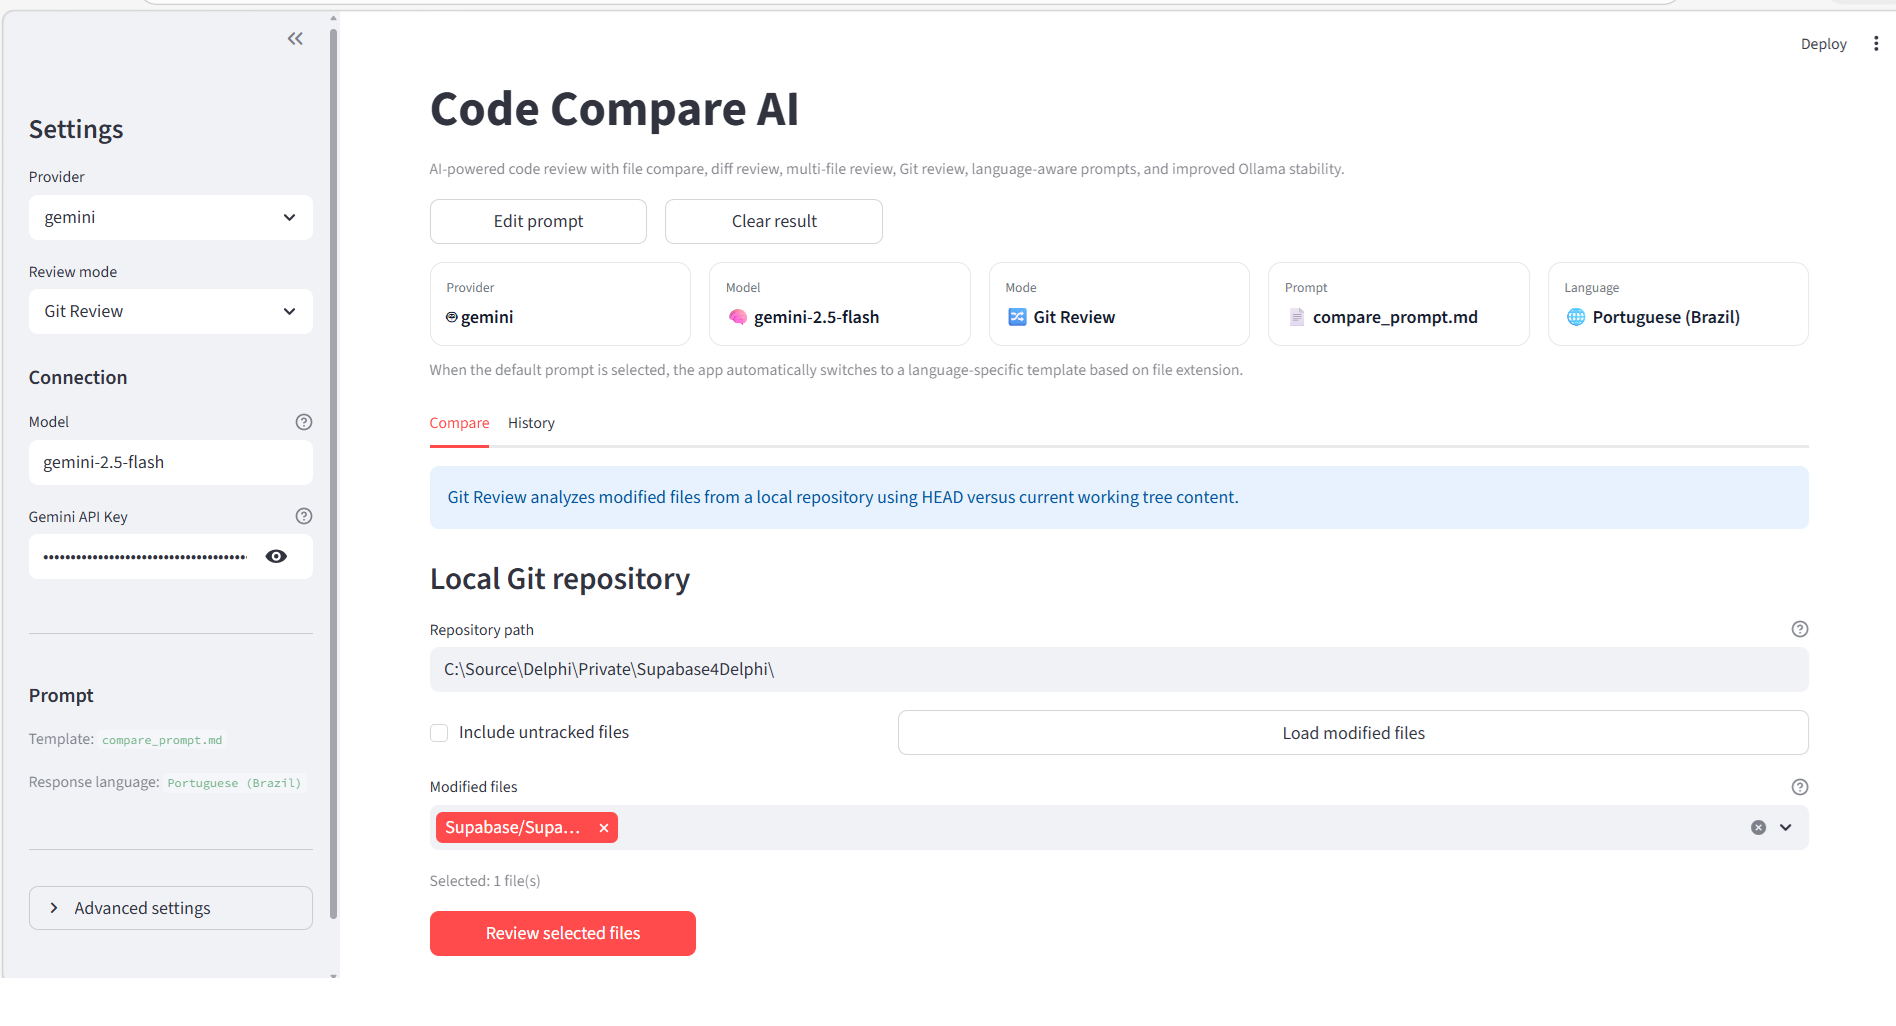
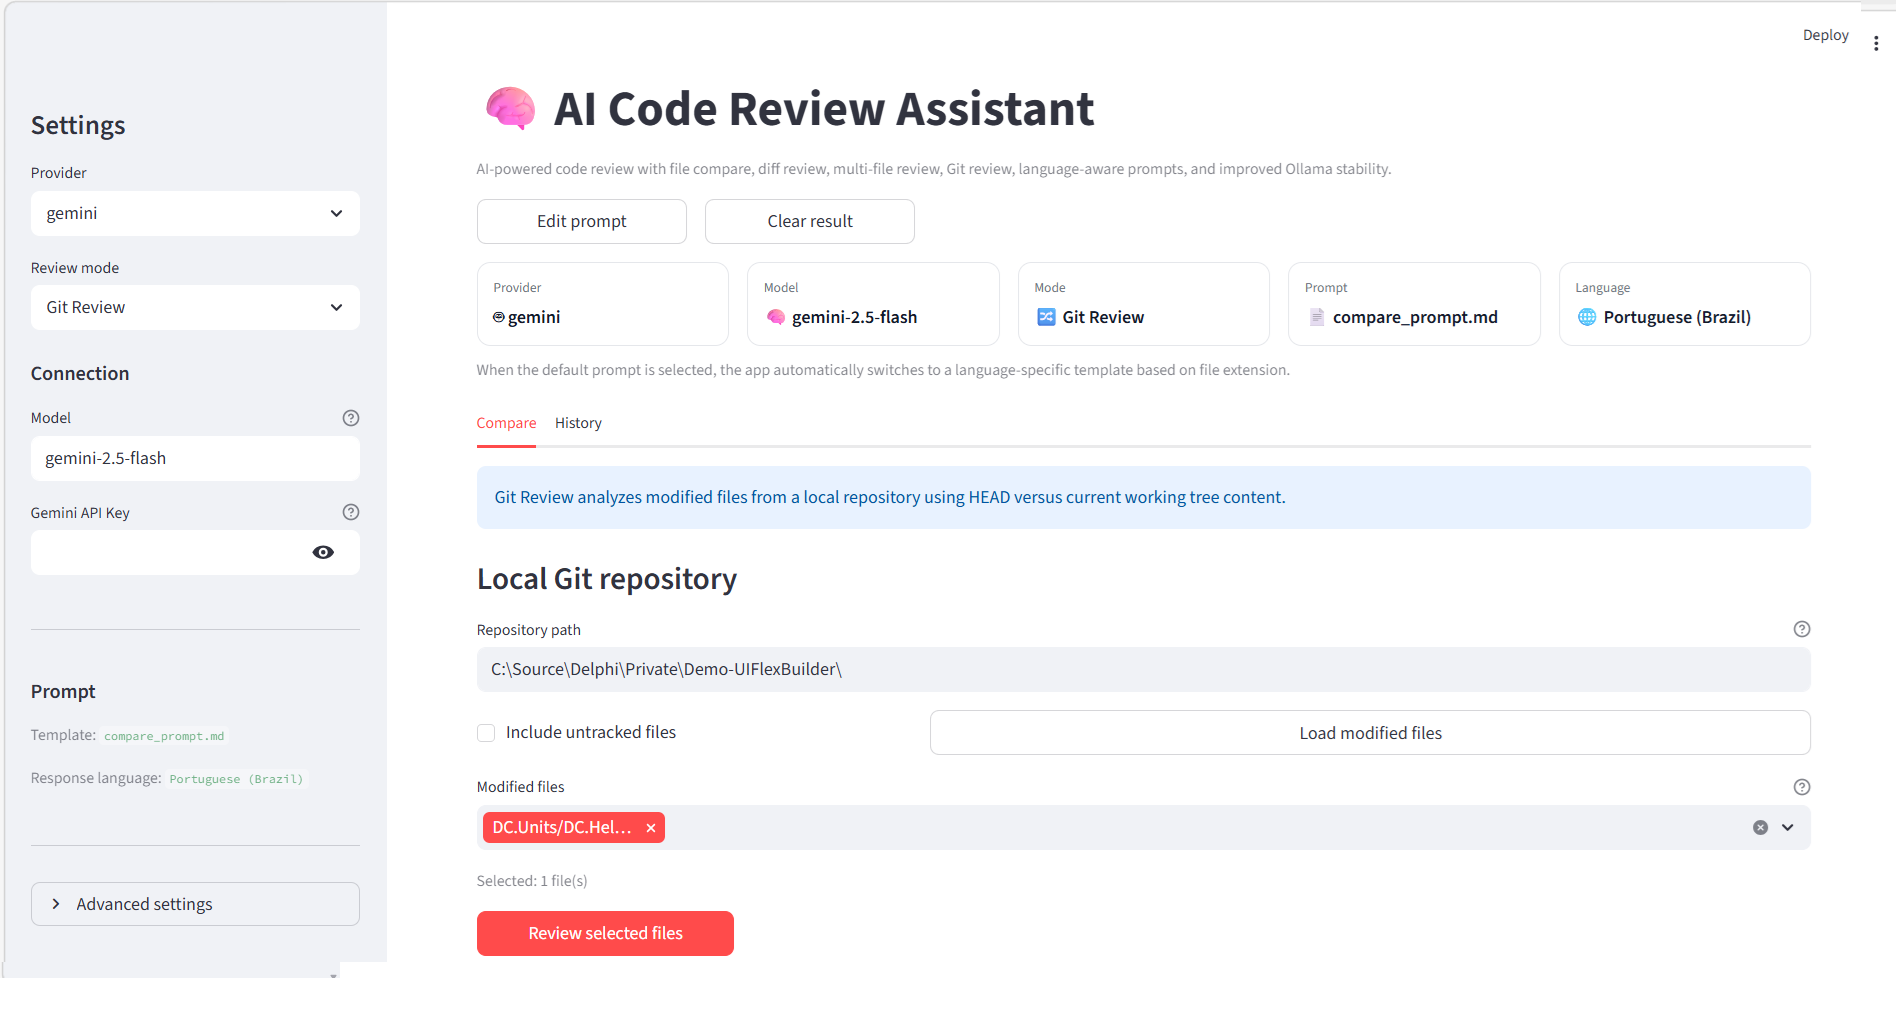
feat(review): add impact analysis, risk level and suggested tests to AI review output

diff --git a/code_compare_ai/app.py b/code_compare_ai/app.py
@@ -49,7 +49,7 @@ from utils import (
     read_uploaded_file,
 )
 
-st.set_page_config(page_title="Code Compare AI", page_icon="🧠", layout="wide")
+st.set_page_config(page_title="AI Code Review Assistant", page_icon="🧠", layout="wide")
 
 PROVIDER_OPTIONS = ["gemini", "openai", "ollama"]
 LANGUAGE_OPTIONS = ["Portuguese (Brazil)", "English"]
@@ -117,6 +117,27 @@ def inject_styles():
             font-size: 12px;
             color: #6b7280;
             margin-top: 8px;
+        }
+        .ccai-dev-card {
+            border: 1px solid #e5e7eb;
+            border-radius: 12px;
+            padding: 12px 14px;
+            background: #ffffff;
+            margin-top: 12px;
+        }
+        .ccai-dev-title {
+            font-size: 14px;
+            font-weight: 700;
+            color: #111827;
+            margin-bottom: 6px;
+        }
+        .ccai-dev-text {
+            font-size: 14px;
+            color: #6b7280;
+        }
+        .ccai-dev-links a {
+            text-decoration: none;
+            font-size: 12px;
         }
         </style>
         """,
@@ -262,7 +283,7 @@ def render_sidebar():
 
     st.sidebar.subheader("Connection")
     if provider == "gemini":
-        st.sidebar.text_input("Model", key="gemini_model", help="Example: gemini-1.5-flash")
+        st.sidebar.text_input("Model", key="gemini_model", help="Example: gemini-2.5-flash")
         st.sidebar.text_input("Gemini API Key", value=st.session_state.provider_api_key, key="provider_api_key", type="password", help="Leave empty to use GEMINI_API_KEY from .env")
     elif provider == "openai":
         st.sidebar.text_input("Model", key="openai_model", help="Example: gpt-4.1-mini")
@@ -295,7 +316,30 @@ def render_sidebar():
         st.caption("History limit: {0}".format(HISTORY_LIMIT))
         st.caption("Git max files per review: {0}".format(GIT_REVIEW_MAX_FILES))
         st.caption("Multi-file max pairs: {0}".format(MAX_MULTI_FILE_PAIRS))
+    st.sidebar.divider()
 
+    st.sidebar.markdown(
+            """
+        <div class="ccai-dev-card">
+
+        <div class="ccai-dev-title">
+        AI Code Review Assistant
+        </div>
+
+        <div class="ccai-dev-text">
+        Created by <b>Diego Cataneo</b><br>
+        </div>
+        
+
+        <div class="ccai-dev-links">
+        🔗 <a href="https://github.com/DelphiCreative" target="_blank">GitHub</a><br>
+        🎥 <a href="https://youtube.com/@delphicreative" target="_blank">YouTube</a>
+        </div>
+
+        </div>
+        """,
+            unsafe_allow_html=True,
+        )
 
 def info_card(title, value):
     st.markdown(
@@ -348,7 +392,7 @@ def render_score_panel(score: float, issues_count: int, high_count: int, suggest
 
 
 def render_header():
-    st.title("Code Compare AI")
+    st.title("🧠 AI Code Review Assistant")
     st.caption("AI-powered code review with file compare, diff review, multi-file review, Git review, language-aware prompts, and improved Ollama stability.")
 
     action_col1, action_col2, _ = st.columns([1, 1, 4])

diff --git a/code_compare_ai/config.py b/code_compare_ai/config.py
@@ -24,7 +24,7 @@ OPENAI_API_KEY = os.getenv("OPENAI_API_KEY", "")
 OPENAI_MODEL = os.getenv("OPENAI_MODEL", "gpt-4.1-mini")
 
 GEMINI_API_KEY = os.getenv("GEMINI_API_KEY", "")
-GEMINI_MODEL = os.getenv("GEMINI_MODEL", "gemini-1.5-flash")
+GEMINI_MODEL = os.getenv("GEMINI_MODEL", "gemini-2.5-flash")
 
 OLLAMA_BASE_URL = os.getenv("OLLAMA_BASE_URL", "http://localhost:11434")
 OLLAMA_MODEL = os.getenv("OLLAMA_MODEL", "qwen2.5-coder:7b")

diff --git a/code_compare_ai/prompts/impact_analysis.md b/code_compare_ai/prompts/impact_analysis.md
@@ -1,0 +1,17 @@
+
+You are an expert senior software engineer performing code review.
+
+Return structured JSON.
+
+Fields:
+summary
+score
+issues
+suggestions
+changes_detected
+
+Additional required fields:
+
+impact_analysis: explain what impact the change may have in the system.
+risk_level: low | medium | high
+recommended_tests: list of test scenarios that should be executed.

diff --git a/code_compare_ai/README.md b/code_compare_ai/README.md
@@ -1,4 +1,4 @@
-# Code Compare AI
+# AI Code Review Assistant
 
 ![Python](https://img.shields.io/badge/python-3.10-blue)
 ![License](https://img.shields.io/badge/license-MIT-green)
